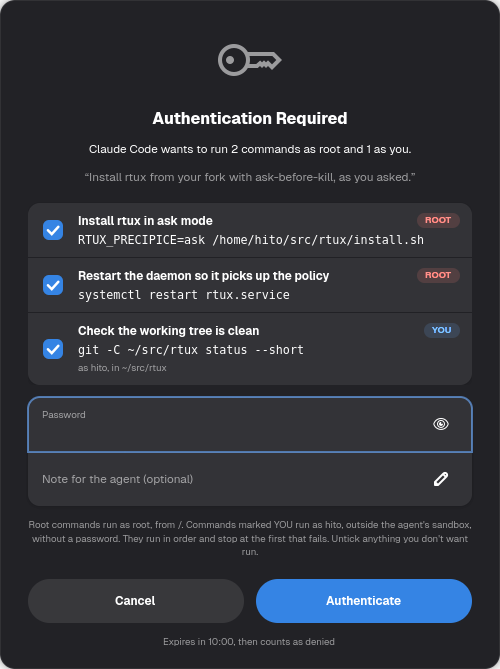
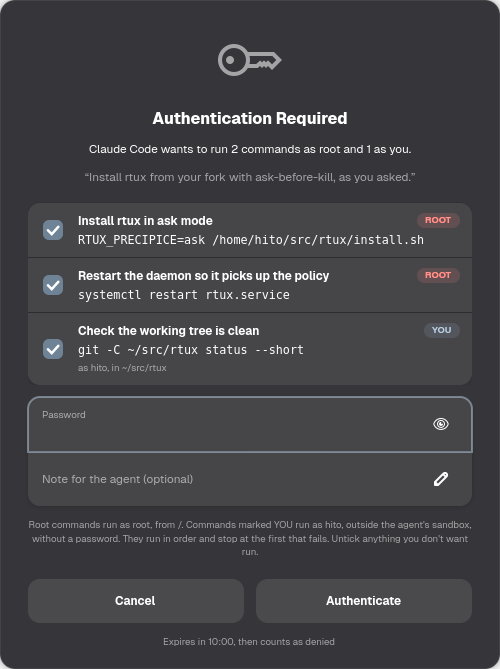
v1.9.1: steel grey like GNOME Shell's own prompts
Adwaita's dialog background, neutral buttons with the shell's 12px
corners, and the slate accent instead of the system accent, matching the
shell's keyring and polkit prompts (ADR 14). Still only Adwaita palette
colours.

diff --git a/docs/changelog.html b/docs/changelog.html
@@ -19,8 +19,8 @@
 <a class="brand" href="index.html"><img src="assets/logo.svg" alt=""><span>dvarapala <small>द्वारपाल</small></span></a>
 <nav><a href="index.html" class="">Overview</a><a href="changelog.html" class="on">Changelog</a><a href="adr/index.html" class=" hide">Decisions</a><a class="gh" href="https://github.com/Theyashsawarkar/dvarapala">GitHub ↗</a></nav></div></header>
 
-<div class="wrap"><aside class="toc"><b>On this page</b><a class="l2" href="#v190">v1.9.0</a><a class="l2" href="#v180">v1.8.0</a><a class="l2" href="#v170">v1.7.0</a><a class="l2" href="#v160">v1.6.0</a><a class="l2" href="#v150">v1.5.0</a><a class="l2" href="#v140">v1.4.0</a><a class="l2" href="#v130">v1.3.0</a><a class="l2" href="#v121">v1.2.1</a><a class="l2" href="#v120">v1.2.0</a><a class="l2" href="#v111">v1.1.1</a><a class="l2" href="#v110">v1.1.0</a><a class="l2" href="#v100">v1.0.0</a></aside><article>
-<h2>Changelog</h2><p>Every change to dvarapala, newest first. Releases are git tags (<a href="https://github.com/Theyashsawarkar/dvarapala/tags">all tags</a>, <a href="https://github.com/Theyashsawarkar/dvarapala/releases">GitHub releases</a>); the source of this page is <a href="https://github.com/Theyashsawarkar/dvarapala/blob/main/CHANGELOG.md">CHANGELOG.md</a>.</p><section class="release"><h2 id="v190">v1.9.0<span class="date">2026-11-23</span><a class="tag" href="https://github.com/Theyashsawarkar/dvarapala/releases/tag/v1.9.0">release ↗</a></h2><ul><li><strong>The window looks like GNOME's own password prompts.</strong> Stock libadwaita in the system's light or dark style and accent colour: a key icon, a heading ("Authentication Required"), who is asking and the agent's reason, the commands in a rounded list (each with its reason, a ROOT or YOU badge and a checkbox), the password and the note for the agent as entry rows, and Cancel / Authenticate as two wide buttons. No title bar; the whole window drags. The button says how many of the commands you've left ticked ("Authenticate (2 of 3)"). A wrong password says so under the fields and marks the field red.</li><li><strong>GNOME's keys.</strong> Tab moves, Space ticks, Enter authenticates (or goes to the password first), Esc denies, asking once for the note; Esc again denies without one. The vim keymap, its footer and Ctrl+H are gone.</li><li>The deny step hides the password field (nothing will run) and turns the buttons into "Deny Without Note" and "Deny".</li><li>Removed <code>lib/theme.py</code>, <code>lib/keys.py</code>, <code>scripts/keybinds.py</code> and their tests; <code>install.sh</code> deletes their installed copies. ADR 13 supersedes ADR 6.</li></ul></section><section class="release"><h2 id="v180">v1.8.0<span class="date">2026-11-23</span><a class="tag" href="https://github.com/Theyashsawarkar/dvarapala/releases/tag/v1.8.0">release ↗</a></h2><ul><li><strong>Tell the agent why.</strong> A "Note for the agent" field under the commands: why you deny or untick something, or what to do instead. Deny (the button, <code>q</code> or <code>Esc</code>) now asks for it once before closing: Enter denies with the note, Esc denies without one, so denying stays two keys. <code>m</code> jumps to the field from the cards; Enter in it never runs anything. The note comes back in the result as <code>feedback</code> and at the end of <code>message</code>, with any answer (deny, timeout, or a run with unticked commands), and is kept in your request log. The MCP tool and schema tell agents to follow it and never resend the same commands unchanged (ADR 11).</li><li><strong>Agents find dvarapala on their own.</strong> <code>install.sh</code> puts a root-owned <code>/usr/local/bin/sudo</code> stand-in ahead of <code>/usr/bin/sudo</code>: outside an agent sandbox it is plain sudo (<code>exec /usr/bin/sudo &quot;$@&quot;</code>); inside one, where the no_new_privs flag makes real sudo fail anyway, it tells the agent to use <code>request_commands</code> or <code>dvarapala</code> instead. A <code>/usr/local/bin/sudo</code> that isn't ours is left alone; <code>--uninstall</code> removes only ours (ADR 12). The MCP server's instructions say the same.</li><li><strong>Debian and Ubuntu.</strong> Root commands find <code>/usr/sbin</code> and <code>/sbin</code> (sysctl, usermod, swapon...: separate directories there, links on Arch), and run with <code>DEBIAN_FRONTEND=noninteractive</code>, since they have no stdin. <code>install.sh</code> installs the dependencies with apt too, as it does with pacman.</li></ul></section><section class="release"><h2 id="v170">v1.7.0<span class="date">2026-11-09</span><a class="tag" href="https://github.com/Theyashsawarkar/dvarapala/releases/tag/v1.7.0">release ↗</a></h2><ul><li>Every corner is rounded: the website's callouts.</li><li>A logo and a shloka at the top of the README and the website: every Vayu tool has them now.</li></ul>
+<div class="wrap"><aside class="toc"><b>On this page</b><a class="l2" href="#v191">v1.9.1</a><a class="l2" href="#v190">v1.9.0</a><a class="l2" href="#v180">v1.8.0</a><a class="l2" href="#v170">v1.7.0</a><a class="l2" href="#v160">v1.6.0</a><a class="l2" href="#v150">v1.5.0</a><a class="l2" href="#v140">v1.4.0</a><a class="l2" href="#v130">v1.3.0</a><a class="l2" href="#v121">v1.2.1</a><a class="l2" href="#v120">v1.2.0</a><a class="l2" href="#v111">v1.1.1</a><a class="l2" href="#v110">v1.1.0</a><a class="l2" href="#v100">v1.0.0</a></aside><article>
+<h2>Changelog</h2><p>Every change to dvarapala, newest first. Releases are git tags (<a href="https://github.com/Theyashsawarkar/dvarapala/tags">all tags</a>, <a href="https://github.com/Theyashsawarkar/dvarapala/releases">GitHub releases</a>); the source of this page is <a href="https://github.com/Theyashsawarkar/dvarapala/blob/main/CHANGELOG.md">CHANGELOG.md</a>.</p><section class="release"><h2 id="v191">v1.9.1<span class="date">2026-11-23</span><a class="tag" href="https://github.com/Theyashsawarkar/dvarapala/releases/tag/v1.9.1">release ↗</a></h2><ul><li><strong>Steel grey, like GNOME Shell's own prompts.</strong> The window takes Adwaita's dialog background (<code>#36363a</code> in dark, as the shell's keyring and polkit prompts), neutral buttons with the shell's 12px corners instead of an accent-filled Authenticate, and Adwaita's slate accent for the checkboxes and focus ring, whatever the system accent is. All of them are Adwaita's own palette colours (ADR 14).</li></ul></section><section class="release"><h2 id="v190">v1.9.0<span class="date">2026-11-23</span><a class="tag" href="https://github.com/Theyashsawarkar/dvarapala/releases/tag/v1.9.0">release ↗</a></h2><ul><li><strong>The window looks like GNOME's own password prompts.</strong> Stock libadwaita in the system's light or dark style and accent colour: a key icon, a heading ("Authentication Required"), who is asking and the agent's reason, the commands in a rounded list (each with its reason, a ROOT or YOU badge and a checkbox), the password and the note for the agent as entry rows, and Cancel / Authenticate as two wide buttons. No title bar; the whole window drags. The button says how many of the commands you've left ticked ("Authenticate (2 of 3)"). A wrong password says so under the fields and marks the field red.</li><li><strong>GNOME's keys.</strong> Tab moves, Space ticks, Enter authenticates (or goes to the password first), Esc denies, asking once for the note; Esc again denies without one. The vim keymap, its footer and Ctrl+H are gone.</li><li>The deny step hides the password field (nothing will run) and turns the buttons into "Deny Without Note" and "Deny".</li><li>Removed <code>lib/theme.py</code>, <code>lib/keys.py</code>, <code>scripts/keybinds.py</code> and their tests; <code>install.sh</code> deletes their installed copies. ADR 13 supersedes ADR 6.</li></ul></section><section class="release"><h2 id="v180">v1.8.0<span class="date">2026-11-23</span><a class="tag" href="https://github.com/Theyashsawarkar/dvarapala/releases/tag/v1.8.0">release ↗</a></h2><ul><li><strong>Tell the agent why.</strong> A "Note for the agent" field under the commands: why you deny or untick something, or what to do instead. Deny (the button, <code>q</code> or <code>Esc</code>) now asks for it once before closing: Enter denies with the note, Esc denies without one, so denying stays two keys. <code>m</code> jumps to the field from the cards; Enter in it never runs anything. The note comes back in the result as <code>feedback</code> and at the end of <code>message</code>, with any answer (deny, timeout, or a run with unticked commands), and is kept in your request log. The MCP tool and schema tell agents to follow it and never resend the same commands unchanged (ADR 11).</li><li><strong>Agents find dvarapala on their own.</strong> <code>install.sh</code> puts a root-owned <code>/usr/local/bin/sudo</code> stand-in ahead of <code>/usr/bin/sudo</code>: outside an agent sandbox it is plain sudo (<code>exec /usr/bin/sudo &quot;$@&quot;</code>); inside one, where the no_new_privs flag makes real sudo fail anyway, it tells the agent to use <code>request_commands</code> or <code>dvarapala</code> instead. A <code>/usr/local/bin/sudo</code> that isn't ours is left alone; <code>--uninstall</code> removes only ours (ADR 12). The MCP server's instructions say the same.</li><li><strong>Debian and Ubuntu.</strong> Root commands find <code>/usr/sbin</code> and <code>/sbin</code> (sysctl, usermod, swapon...: separate directories there, links on Arch), and run with <code>DEBIAN_FRONTEND=noninteractive</code>, since they have no stdin. <code>install.sh</code> installs the dependencies with apt too, as it does with pacman.</li></ul></section><section class="release"><h2 id="v170">v1.7.0<span class="date">2026-11-09</span><a class="tag" href="https://github.com/Theyashsawarkar/dvarapala/releases/tag/v1.7.0">release ↗</a></h2><ul><li>Every corner is rounded: the website's callouts.</li><li>A logo and a shloka at the top of the README and the website: every Vayu tool has them now.</li></ul>
 <ul><li>Vim keys, modal like every Vayu tool but kept small (no Space leader): the window opens in <strong>insert</strong> mode in the password field when a command runs as root, otherwise in <strong>normal</strong> mode on the first command card. Normal: <code>j</code>/<code>k</code> move between the commands (<code>gg</code>/<code>G</code> first/last), <code>x</code> or <code>Space</code> ticks the one you're on, <code>a</code> / <code>n</code> tick all / none, <code>Enter</code> runs (or goes to the password first), <code>i</code> types the password, <code>q</code> or <code>Esc</code> denies. In the password field <code>Esc</code> goes back to the cards instead of denying at once; <code>Esc</code> again denies. Moving between cards no longer needs Tab.</li><li>The card you're on has the accent border, and the footer shows the mode.</li><li>Enter or Space on the Deny / Run buttons (reached with Tab) still presses that button. Tab and Shift+Tab still move the focus, and Ctrl chords that aren't the window's (Ctrl+C on a selected command) still reach GTK: NORMAL mode had swallowed every key it didn't know, so Tab went nowhere.</li><li><code>Ctrl+H</code> hides the window while the password is being checked too, as it did before the vim keys.</li><li>The keys are data, resolved by Vyom's keys module (<code>lib/keys.py</code>, vendored, installed root-owned with the rest); <code>scripts/keybinds.py</code> writes the <code># keybind:</code> lines and the README table, and CI checks them.</li></ul></section><section class="release"><h2 id="v160">v1.6.0<span class="date">2026-11-02</span><a class="tag" href="https://github.com/Theyashsawarkar/dvarapala/releases/tag/v1.6.0">release ↗</a></h2><ul><li><strong>Renamed from anumati to dvarapala</strong> (द्वारपाल, the guardian at the temple door; ADR 10). The command and MCP server are <code>dvarapala</code>; <code>/usr/local/bin/anumati</code> stays as a root-owned link to it, so agents and notes that still say anumati keep working. Reinstall with <code>./install.sh</code>.</li></ul></section><section class="release"><h2 id="v150">v1.5.0<span class="date">2026-11-02</span><a class="tag" href="https://github.com/Theyashsawarkar/dvarapala/releases/tag/v1.5.0">release ↗</a></h2><ul><li><strong>The window closes as soon as you answer</strong> (ADR 9). It used to stay up until the commands finished, showing each one's result, and stayed open after a failure until you closed it. Now it goes the moment you approve (after a right password, if one was needed) or deny; a wrong password still keeps it open to retry. The commands run on in the same process with no window, and the agent waits for the results, as before. The phone's request clears at the same moment.</li><li>Gone with the results view: the per-card state and output, and the <code>Enter (after a failed run)</code> key. A failure now reaches you through the agent, which gets the full output; the logs are as before.</li><li><code>Ctrl+H</code> hides the window at any time. Hiding isn't an answer: an unanswered request can still be answered from the phone, otherwise the agent waits until it expires and counts as denied. It can't be brought back.</li><li>If the run breaks unexpectedly, the agent now gets an <code>error</code> result instead of waiting forever on a process with no window.</li></ul></section><section class="release"><h2 id="v140">v1.4.0<span class="date">2026-10-28</span><a class="tag" href="https://github.com/Theyashsawarkar/dvarapala/releases/tag/v1.4.0">release ↗</a></h2><ul><li><strong>Commands as you, not just as root</strong> (ADR 8). A command can say <code>&quot;as&quot;: &quot;user&quot;</code> (with an optional absolute <code>cwd</code>, default: home): for anything an agent can't run itself, like a command its sandbox blocks. It shows in the same window with a YOU badge (ROOT ones get a red badge and border), numbered in run order, with "as <user>, in <folder>" under it; the top bar counts each kind. YOU commands run as you from the window with a click: the password is asked for only when a ROOT command is ticked, and a request with only YOU commands has no password field. Commands run in request order, stopping at the first failure of either kind; each run of ROOT commands is one <code>sudo -k</code>. Without <code>&quot;as&quot;</code> a command is ROOT, so 1.x requests are unchanged; <code>cwd</code> on a ROOT command is refused.</li><li>YOU commands get an allowlisted environment from the systemd user manager, not the agent's (no <code>BASH_ENV</code>, <code>LD_PRELOAD</code>, exported functions; <code>PATH</code> without relative or world-writable folders), and no login shell. New <code>lib/userrun.py</code> (pure Python, tested), installed next to the window.</li><li>MCP: the tool is now <code>request_commands</code>; <code>request_root_commands</code> is still listed, as the same tool. CLI: <code>--as user</code> and <code>--cwd</code> for the one-off form. Results and your <code>requests.jsonl</code> carry each command's <code>as</code> and <code>cwd</code>; notifications say "Approval requested" when nothing runs as root.</li><li>Answering from the phone: approving only YOU commands needs no password (<code>lib/remote.py</code>'s <code>parse_answer</code> takes the ROOT indexes); the request sent to ekatva carries <code>as</code> and <code>cwd</code>.</li><li>Enter on a command's checkbox runs the request (or moves to the password field when it's needed and empty).</li></ul></section><section class="release"><h2 id="v130">v1.3.0<span class="date">2026-10-26</span><a class="tag" href="https://github.com/Theyashsawarkar/dvarapala/releases/tag/v1.3.0">release ↗</a></h2><ul><li>Answer from your phone: when <a href="https://github.com/Theyashsawarkar/ekatva">ekatva</a> runs, the window also hands its request to ekatva (<code>/run/user/&lt;uid&gt;/ekatva-root.sock</code>), which shows it on your paired phone. Approving there (which commands, and your password) ticks those commands in the window and fills the password field, then goes through the same sudo check and runner as typing it here; a wrong password is reported back so you can retry from the phone; denying there denies. The window sends nothing secret out, finds the socket by uid (not the agent's environment), and validates every answer strictly. Without ekatva nothing changes. New <code>lib/remote.py</code> (pure Python, tested), ADR 7. The footer says "also on your phone" while it's linked.</li></ul></section><section class="release"><h2 id="v121">v1.2.1<span class="date">2026-10-24</span><a class="tag" href="https://github.com/Theyashsawarkar/dvarapala/releases/tag/v1.2.1">release ↗</a></h2><ul><li>The look and the theme check moved into <code>lib/theme.py</code> (pure Python), loaded by path by the window: the tests that check a tampered theme can't hide anything now run in CI, which has no GTK (1.2.0's CI failed there). install.sh installs it next to dialog.py.</li></ul></section><section class="release"><h2 id="v120">v1.2.0<span class="date">2026-10-24</span><a class="tag" href="https://github.com/Theyashsawarkar/dvarapala/releases/tag/v1.2.0">release ↗</a></h2><ul><li><strong>Looks like the rest of the desktop.</strong> The window has Vyom's layout: a "Root access" pill and the request in the top bar, the commands as rounded cards, the password and buttons, then the keys (Space, Enter, Esc) and the time left in the footer; Vyom's type, buttons and a 20 px glass card (0.84, never see-through enough to read what's behind).</li><li><strong>In your theme, safely</strong> (ADR 6). The colours come from varna's <code>palette.json</code>, read as plain <code>#rrggbb</code> data only, never CSS. The body text and the commands must stay readable (4.5:1) or the palette is ignored; the command is the theme's green only at 7:1, else plain text; any other colour that isn't readable enough becomes the text colour; the Run button's label is picked to read on the accent. A light theme gets a light window. Without varna: anumati's own colours, as before.</li><li>Focus rings and selected text use the theme's accent (not GTK's blue).</li></ul></section><section class="release"><h2 id="v111">v1.1.1<span class="date">2026-10-21</span><a class="tag" href="https://github.com/Theyashsawarkar/dvarapala/releases/tag/v1.1.1">release ↗</a></h2><ul><li>A website (GitHub Pages, <a href="https://theyashsawarkar.github.io/anumati/">https://theyashsawarkar.github.io/anumati/</a>): the README as a home page, the changelog, and architecture decision records (<code>docs/adr/</code>), built from these files by <code>scripts/build-site.py</code>; CI checks the site is up to date.</li></ul></section><section class="release"><h2 id="v110">v1.1.0<span class="date">2026-10-21</span><a class="tag" href="https://github.com/Theyashsawarkar/dvarapala/releases/tag/v1.1.0">release ↗</a></h2><ul><li>Renamed from <code>vayu-elevate</code> to <strong>anumati</strong> (अनुमति, "permission") and moved into its own repository. Everything moves with the name: <code>/usr/local/bin/anumati</code>, <code>/usr/local/lib/anumati/</code>, <code>/var/log/anumati.log</code>, <code>~/.local/state/anumati/requests.jsonl</code>, the window's app id <code>io.github.theyashsawarkar.Anumati</code>, the MCP server name.</li><li><code>install.sh</code> (was Vayu's <code>ai/apply.sh</code>) installs it root-owned, keeps <code>/usr/local/bin/vayu-elevate</code> as a link so the old name still works, removes the old <code>/usr/local/lib/vayu-elevate</code>, and gains <code>--uninstall</code>.</li><li>Tests for request validation, and CI.</li></ul></section><section class="release"><h2 id="v100">v1.0.0<span class="date">2026-10-16</span><a class="tag" href="https://github.com/Theyashsawarkar/dvarapala/releases/tag/v1.0.0">release ↗</a></h2><ul><li>First version, as <code>vayu-elevate</code> inside Vayu: the approval window, the root runner, JSON in and out, the MCP server, the audit logs.</li></ul></section>
 </article></div>
 <footer><div class="in"><div><h4>Desktop</h4><a href="https://theyashsawarkar.github.io/vayu/" class="">vayu <span>वायु · the keyboard-driven Wayland desktop</span></a></div><div><h4>Apps</h4><a href="https://theyashsawarkar.github.io/kosha/" class="">kosha <span>कोश · package manager</span></a><a href="https://theyashsawarkar.github.io/nada/" class="">nada <span>नाद · music player</span></a><a href="https://theyashsawarkar.github.io/drishya/" class="">drishya <span>दृश्य · video player</span></a><a href="https://theyashsawarkar.github.io/sangam/" class="">sangam <span>संगम · pull requests in the terminal</span></a><a href="https://theyashsawarkar.github.io/narada/" class="">narada <span>नारद · mail and chat in the terminal</span></a><a href="https://theyashsawarkar.github.io/pattan/" class="">pattan <span>पत्तन · ports and tunnels</span></a><a href="https://theyashsawarkar.github.io/nauka/" class="">nauka <span>नौका · Docker in the terminal</span></a><a href="https://theyashsawarkar.github.io/vaikhari/" class="">vaikhari <span>वैखरी · posts to X and LinkedIn</span></a><a href="https://theyashsawarkar.github.io/dvarapala/" class="me">dvarapala <span>द्वारपाल · commands for AI agents, approved</span></a><a href="https://theyashsawarkar.github.io/pramana/" class="">pramana <span>प्रमाण · password prompts</span></a><a href="https://theyashsawarkar.github.io/vesha/" class="">vesha <span>वेष · Claude Code accounts</span></a><a href="https://theyashsawarkar.github.io/vishvakarma/" class="">vishvakarma <span>विश्वकर्मा · skills for every AI agent</span></a><a href="https://theyashsawarkar.github.io/ekatva/" class="">ekatva <span>एकत्व · phone and laptop, linked</span></a><a href="https://theyashsawarkar.github.io/varna/" class="">varna <span>वर्ण · theme engine</span></a><a href="https://theyashsawarkar.github.io/vinyasa/" class="">vinyasa <span>विन्यास · settings</span></a></div><div><h4>Vyom</h4><a href="https://theyashsawarkar.github.io/vyom/" class="">vyom <span>व्योम · panels runtime</span></a></div><div><h4>Vyom tools</h4><a href="https://theyashsawarkar.github.io/dvara/" class="">dvara <span>द्वार · apps</span></a><a href="https://theyashsawarkar.github.io/ganit/" class="">ganit <span>गणित · calculator</span></a><a href="https://theyashsawarkar.github.io/smriti/" class="">smriti <span>स्मृति · clipboard</span></a><a href="https://theyashsawarkar.github.io/bhava/" class="">bhava <span>भाव · emoji</span></a><a href="https://theyashsawarkar.github.io/tarang/" class="">tarang <span>तरंग · Wi‑Fi</span></a><a href="https://theyashsawarkar.github.io/setu/" class="">setu <span>सेतु · Bluetooth</span></a><a href="https://theyashsawarkar.github.io/doot/" class="">doot <span>दूत · phone</span></a><a href="https://theyashsawarkar.github.io/patra/" class="">patra <span>पात्र · Docker</span></a><a href="https://theyashsawarkar.github.io/akashvani/" class="">akashvani <span>आकाशवाणी · notifications</span></a><a href="https://theyashsawarkar.github.io/raga/" class="">raga <span>राग · YouTube</span></a><a href="https://theyashsawarkar.github.io/mudra/" class="">mudra <span>मुद्रा · keybindings</span></a><a href="https://theyashsawarkar.github.io/urja/" class="">urja <span>ऊर्जा · battery</span></a><a href="https://theyashsawarkar.github.io/vishram/" class="">vishram <span>विश्राम · power menu</span></a><a href="https://theyashsawarkar.github.io/kendra/" class="">kendra <span>केन्द्र · quick settings</span></a><a href="https://theyashsawarkar.github.io/darpana/" class="">darpana <span>दर्पण · phone, mirrored</span></a></div></div>

diff --git a/docs/index.html b/docs/index.html
@@ -25,8 +25,8 @@
 <p class="lead">Let AI agents ask for root commands, and run only the ones you approve.</p>
 <figure class="shloka"><p lang="sa">मोक्षद्वारे द्वारपालाश्चत्वारः परिकीर्तिताः ।<br>शमो विचारः सन्तोषश्चतुर्थः साधुसङ्गमः ॥</p><figcaption>Four guardians stand at the door of freedom: calm, thinking it through, contentment and good company. <cite>Yoga Vāsiṣṭha 2.11.59</cite></figcaption></figure>
 <div class="cta"><a class="btn primary" href="#install">Install</a><a class="btn" href="https://github.com/Theyashsawarkar/dvarapala">GitHub ↗</a>
-<a class="btn" href="changelog.html">What's new in v1.9.0</a></div>
-<div class="meta"><span><b>v1.9.0</b> latest</span><span><b>12</b> releases</span><span><b>13</b> decisions recorded</span><span><b>MIT</b> license</span></div>
+<a class="btn" href="changelog.html">What's new in v1.9.1</a></div>
+<div class="meta"><span><b>v1.9.1</b> latest</span><span><b>13</b> releases</span><span><b>13</b> decisions recorded</span><span><b>MIT</b> license</span></div>
 </div><img class="logo" src="assets/logo.svg" alt="dvarapala logo"></div></section>
 <div class="wrap"><aside class="toc"><b>On this page</b><a class="l2" href="#features">Features</a><a class="l2" href="#install">Install</a><a class="l2" href="#what-you-see">What you see</a><a class="l2" href="#for-agents-sending-a-request">For agents: sending a request</a><a class="l2" href="#for-agents-reading-the-result">For agents: reading the result</a><a class="l2" href="#for-agents-over-mcp">For agents: over MCP</a><a class="l2" href="#telling-your-agent-about-it">Telling your agent about it</a><a class="l2" href="#whats-recorded">What&#x27;s recorded</a><a class="l2" href="#security">Security</a><a class="l2" href="#how-it-works">How it works</a><a class="l2" href="#troubleshooting">Troubleshooting</a><a class="l2" href="#contributing">Contributing</a><a class="l2" href="#license">License</a></aside><article>
 <p align="center">
@@ -50,7 +50,7 @@ git -C ~/.local/share/dvarapala pull &amp;&amp; ~/.local/share/dvarapala/install
 <p>It used to be called <code>vayu-elevate</code>; the installer keeps that name as a link to <code>dvarapala</code>, so agents and notes that still use it keep working.</p>
 <h2 id="what-you-see"><a class="anchor" href="#what-you-see">#</a>What you see</h2>
 <p>A window opens with everything the agent asked for: each command exactly as it will run, its reason, a checkbox, and a badge saying how it runs: <strong>ROOT</strong> (as root, from <code>/</code>) or <strong>YOU</strong> (as you, in the folder shown under it). The top bar says how many of each. Untick anything you don't want, type your password if any ROOT command is ticked, press <strong>Run</strong> (or Enter). A request with only YOU commands has no password field. The window closes the moment you've answered (after a right password, if one was needed) and you're done: the ticked commands run on without it, in order, stopping at the first failure, and it's the agent that waits for the results, failures included (<a href="adr/0009-window-closes-on-answer.html">ADR 9</a>).</p>
-<p>It looks like GNOME's own password prompts: stock libadwaita, in your system's light or dark style and accent colour, with nothing of its own that could change how readable it is (<a href="adr/0013-stock-adwaita.html">ADR 13</a>).</p>
+<p>It looks like GNOME's own password prompts: stock libadwaita in your system's light or dark style, steel grey like the shell's keyring and polkit prompts (Adwaita's dialog background, neutral buttons, its slate accent), with no colours of its own that could change how readable it is (<a href="adr/0013-stock-adwaita.html">ADR 13</a>, <a href="adr/0014-match-the-shell-prompts.html">ADR 14</a>).</p>
 <p>The keys are GNOME's: Tab moves, Space ticks or unticks the command you're on, Enter authenticates (or goes to the password first), Esc denies.</p>
 <p><strong>Telling the agent why.</strong> Under the password is a <em>Note for the agent</em> field. Deny (Cancel, or Esc) asks for it once before closing: Enter denies with your note, Esc denies without one. The note goes back to the agent as <code>feedback</code> (<a href="adr/0011-note-on-deny.html">ADR 11</a>), with a deny or with a run where you unticked something.</p>
 <p>Closing the window, Deny or Esc means nothing runs. Three wrong passwords end the request. A request nobody answers expires after 10 minutes.</p>

diff --git a/lib/dialog.py b/lib/dialog.py
@@ -41,10 +41,18 @@ EXPIRES_AFTER = 600          # seconds the request stays open (then: denied)
 MAX_ATTEMPTS = 3             # wrong passwords before the request fails
 STATE_LOG = os.path.join(pwd.getpwuid(os.getuid()).pw_dir, ".local/state/dvarapala/requests.jsonl")
 
-# Layout and fonts only. Every colour comes from Adwaita itself (its light and
-# dark styles and the system accent), which keeps all text readable: nothing
-# here, and no user CSS, can make a command hard to see.
+# Layout, fonts, and which of Adwaita's own colours to use. Every colour is an
+# Adwaita palette variable (in its light and dark styles), which keeps all text
+# readable: nothing here, and no user CSS, can make a command hard to see.
+# Like GNOME Shell's own prompts (keyring, polkit): the dialog background,
+# neutral buttons with 12px corners, and the slate accent (ADR 14).
 CSS = """
+window.dvarapala {
+  background-color: var(--dialog-bg-color);
+  color: var(--dialog-fg-color);
+  --accent-bg-color: var(--accent-slate);
+}
+.dvarapala-btn { border-radius: 12px; padding: 10px 12px; }
 .dvarapala-row { padding: 10px 12px; }
 .dvarapala-cmd { font-family: monospace; }
 .dvarapala-badge {
@@ -148,6 +156,7 @@ class ApprovalWindow(Adw.Window):
         self.user = pwd.getpwuid(os.getuid()).pw_name
         self.checks, self.rows = [], []
         self.set_default_size(500, -1)
+        self.add_css_class("dvarapala")
         self.connect("close-request", self.on_close)
 
         # Capture phase: the window sees Esc/Enter before any child.
@@ -217,13 +226,13 @@ class ApprovalWindow(Adw.Window):
 
         buttons = Gtk.Box(spacing=12, homogeneous=True, margin_top=8)
         self.cancel_btn = Gtk.Button(label="Cancel")
-        self.cancel_btn.add_css_class("pill")
+        self.cancel_btn.add_css_class("dvarapala-btn")
         self.cancel_btn.connect("clicked", lambda *_: self.deny_now(with_note=False) if self.denying
                                 else self.ask_deny())
         buttons.append(self.cancel_btn)
+        # Neutral, like the shell's prompts: no accent-filled button.
         self.run_btn = Gtk.Button()
-        self.run_btn.add_css_class("pill")
-        self.run_btn.add_css_class("suggested-action")
+        self.run_btn.add_css_class("dvarapala-btn")
         self.run_btn.connect("clicked", lambda *_: self.on_run())
         buttons.append(self.run_btn)
         box.append(buttons)
@@ -375,7 +384,6 @@ class ApprovalWindow(Adw.Window):
         self.note.set_title("Why are you denying this? (optional)")
         self.cancel_btn.set_label("Deny Without Note")
         self.run_btn.set_label("Deny")
-        self.run_btn.remove_css_class("suggested-action")
         self.run_btn.add_css_class("destructive-action")
         self.run_btn.set_sensitive(True)
         self.note.grab_focus()

diff --git a/README.md b/README.md
@@ -140,9 +140,11 @@ done: the ticked commands run on without it, in order, stopping at the first
 failure, and it's the agent that waits for the results, failures included
 ([ADR 9](docs/adr/0009-window-closes-on-answer.md)).
 
-It looks like GNOME's own password prompts: stock libadwaita, in your
-system's light or dark style and accent colour, with nothing of its own
-that could change how readable it is ([ADR 13](docs/adr/0013-stock-adwaita.md)).
+It looks like GNOME's own password prompts: stock libadwaita in your
+system's light or dark style, steel grey like the shell's keyring and polkit
+prompts (Adwaita's dialog background, neutral buttons, its slate accent), with
+no colours of its own that could change how readable it is
+([ADR 13](docs/adr/0013-stock-adwaita.md), [ADR 14](docs/adr/0014-match-the-shell-prompts.md)).
 
 The keys are GNOME's: Tab moves, Space ticks or unticks the command you're
 on, Enter authenticates (or goes to the password first), Esc denies.

diff --git a/CHANGELOG.md b/CHANGELOG.md
@@ -2,6 +2,15 @@
 
 Newest first. Releases are tags (`vX.Y.Z`) with `VERSION` in `bin/dvarapala`.
 
+## v1.9.1 -- 2026-11-23
+
+- **Steel grey, like GNOME Shell's own prompts.** The window takes Adwaita's
+  dialog background (`#36363a` in dark, as the shell's keyring and polkit
+  prompts), neutral buttons with the shell's 12px corners instead of an
+  accent-filled Authenticate, and Adwaita's slate accent for the checkboxes and
+  focus ring, whatever the system accent is. All of them are Adwaita's own
+  palette colours (ADR 14).
+
 ## v1.9.0 -- 2026-11-23
 
 - **The window looks like GNOME's own password prompts.** Stock libadwaita in
